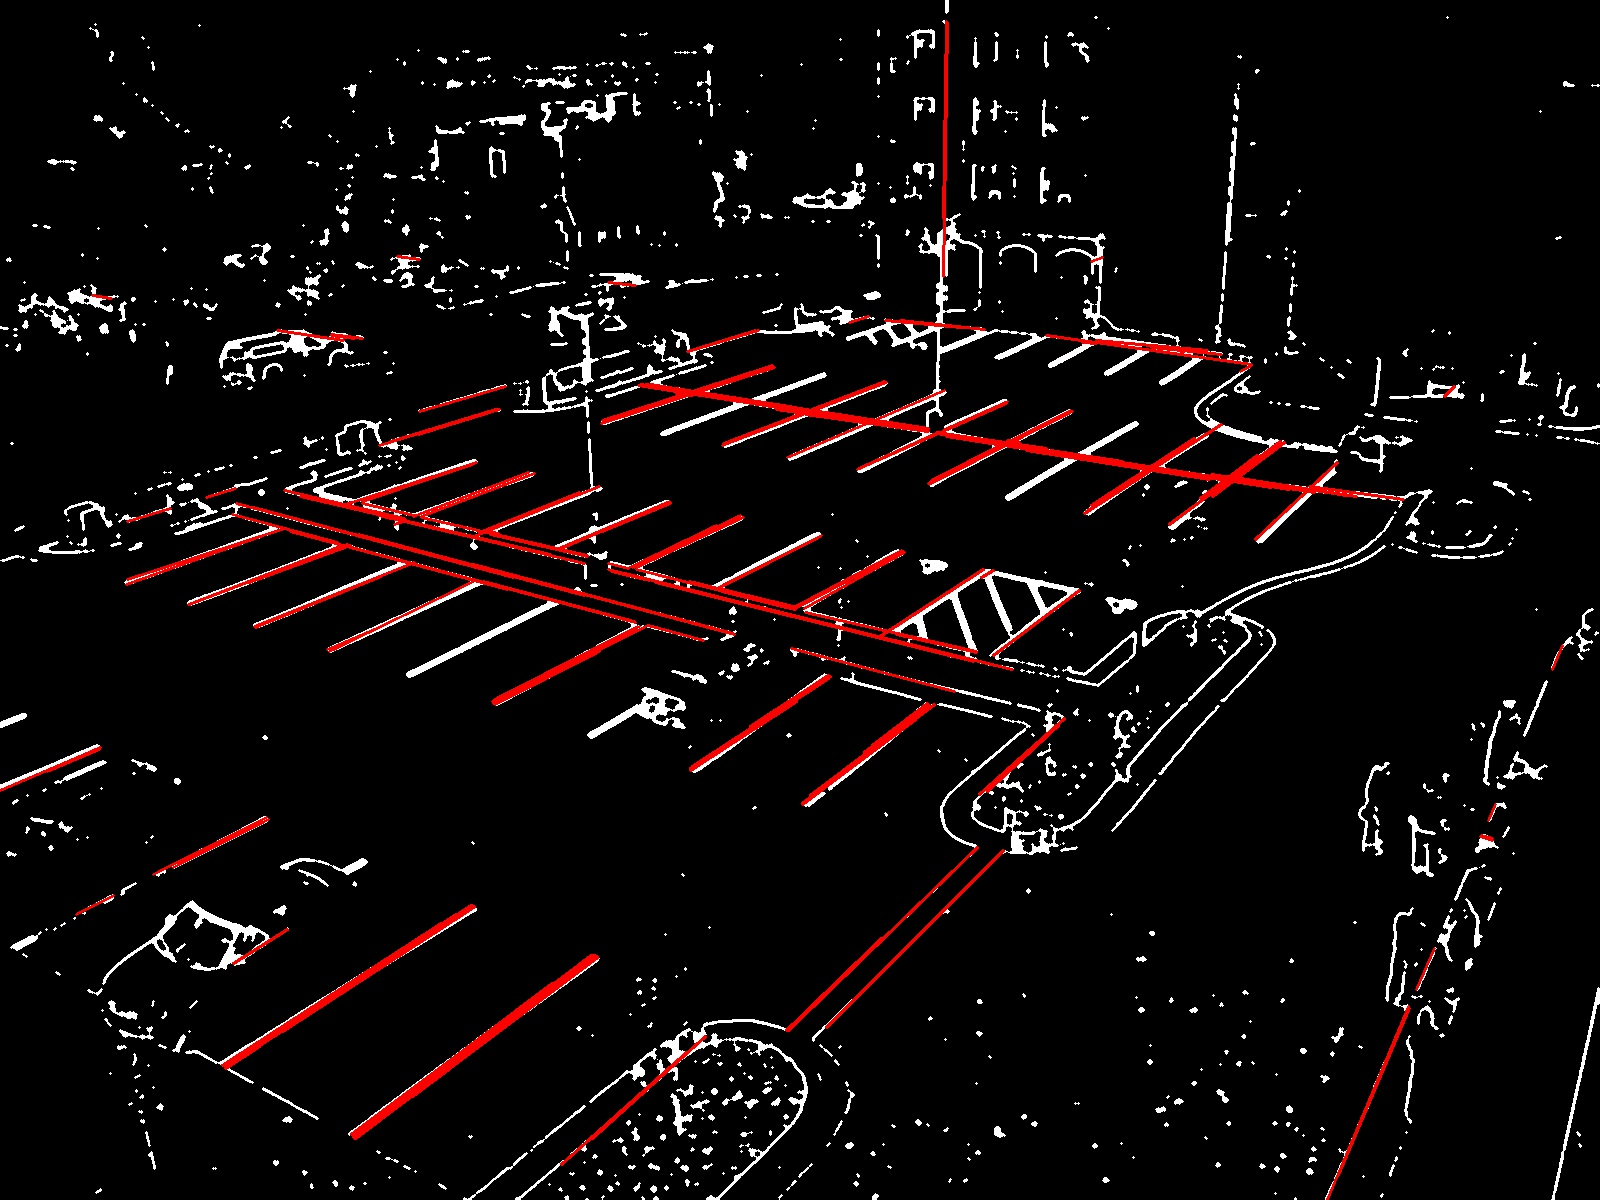
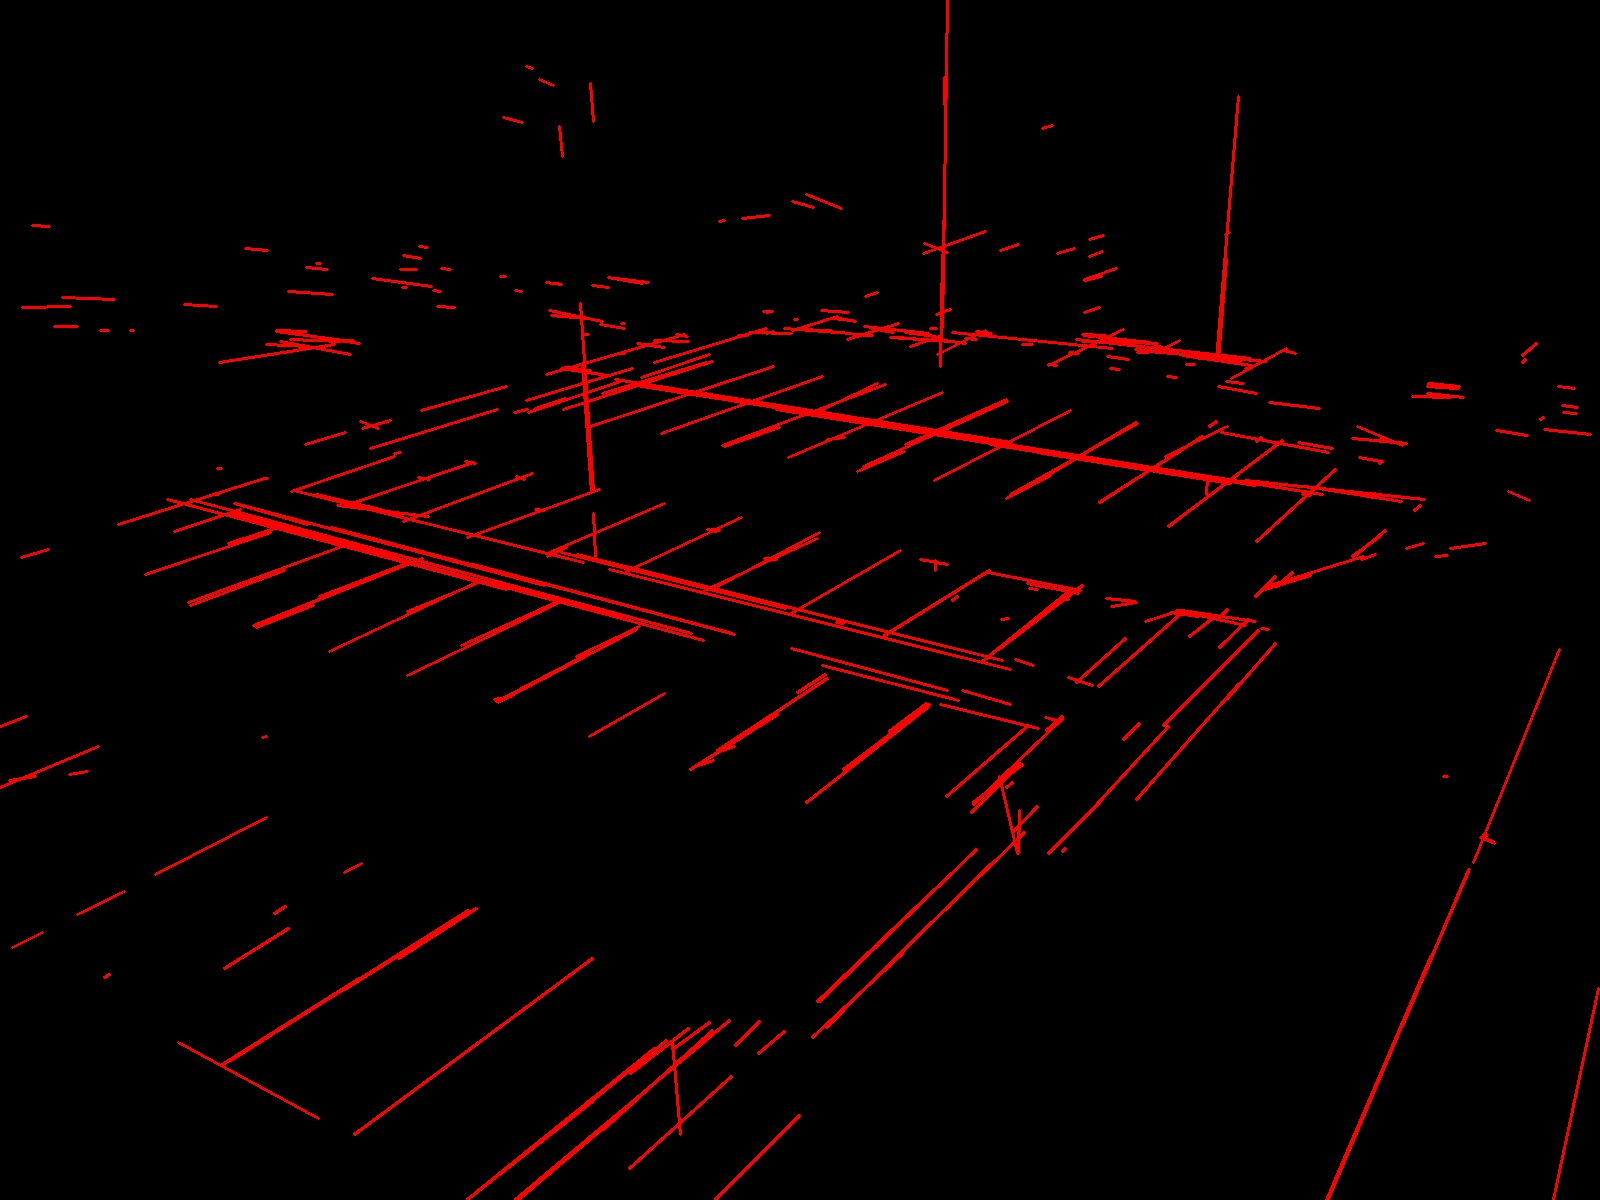
Calcula e clusteriza por segmento de retas (Hough probabilistico)

diff --git a/src/main.cpp b/src/main.cpp
@@ -30,8 +30,8 @@ Mat ExtractFeatureMat(Mat featuresMat, int featureNum);
 #define DIST_RES 1
 #define ANGLE_RES M_PI/180.
 #define HOUGH_THRES 300 // Acumulador
-#define MIN_LINE_LEN 10.
-#define MAX_LINE_GAP 5.
+#define MIN_LINE_LEN 3.
+#define MAX_LINE_GAP 15.
 #define TAM_DILATA 7 // Pixels
 #define TAM_ERODE 5 // Pixels
 #define TAM_LINE 3000 // Pixels
@@ -42,12 +42,14 @@ Mat ExtractFeatureMat(Mat featuresMat, int featureNum);
 
 #define SENSIBILITY 5.
 #define LINE_THRES 0.5
+#define SEGLINE_THRES 0.65
 #define LINE_MAX_DIST 75
 
 std::vector<Vec2f> AKM( std::vector<Vec2f> input, float threshold, float lineMaxDist = LINE_MAX_DIST, unsigned int minLines = 1 );
+std::vector<Vec4i> AKM( std::vector<Vec4i> input, float threshold, float lineMaxDist = LINE_MAX_DIST, unsigned int minLines = 1 );
 void FilterByAKM( std::vector<Vec2f>& input, float threshold, float lineMaxDist = LINE_MAX_DIST, unsigned int minLines = 1 );
 double linesSimilarity( Vec2f lineA, Vec2f lineB, float maxDistance = 50 );
-
+double linesSimilarity( Vec4i lineA, Vec4i lineB, float maxDistance = 100 );
 // Termina AKM
 
 int main(int argc, char** argv){
@@ -78,6 +80,10 @@ int main(int argc, char** argv){
 	// imshow("gy", gy);
 	// imshow("mag", mag);
 	// imshow("angle", angle);
+
+	Mat magSave;
+	mag.convertTo(magSave, CV_8UC1, 255);
+	imwrite("./debug-data/sobel-mag.jpg", magSave);
 
 	// Começa GLCM (matriz de homogeneidades)
 	int featuresWidth = std::ceil((img.cols-(WINDOW_SIZE-1))/X_STEP);
@@ -298,7 +304,7 @@ int main(int argc, char** argv){
 
 	// Termina GLCM
 
-	printf("GLCMs computadas. Calculando linhas...\n");
+	printf("GLCMs computadas. Calculando Transformada de Hough...\n");
 
 	// Começa Hough (Transformada de Hough (rho theta), mesmo alpha)
 
@@ -309,13 +315,13 @@ int main(int argc, char** argv){
 		threshold(gray, binarizado, BIN_THRES, 255, THRESH_BINARY/100);
 		binarizado.convertTo(binarizado, CV_8UC1);
 		// imshow("Hough - binarizado", binarizado);
-		imwrite("./debug-data/hough-binarizado.jpg", binarizado);
+		imwrite("./debug-data/binarizado.jpg", binarizado);
 
 		// Faz fechamento customizado
 		morphologyEx(binarizado, operado, MORPH_DILATE, getStructuringElement( MORPH_ELLIPSE, Size(TAM_DILATA, TAM_DILATA) ));
 		morphologyEx(operado, operado, MORPH_ERODE, getStructuringElement( MORPH_ELLIPSE, Size(TAM_ERODE, TAM_ERODE) ));
 		// imshow("Hough - operado", operado);
-		imwrite("./debug-data/hough-operado.jpg", operado);
+		imwrite("./debug-data/morph-operado.jpg", operado);
 
 		{ // Acha as linhas por Hough
 			std::vector<Vec2f> lines;
@@ -359,6 +365,34 @@ int main(int argc, char** argv){
 			// imshow("Hough - Linhas Clusterizadas", houghWithClusteredLines);
 			imwrite("./debug-data/hough-linhas-cluster.jpg", houghWithClusteredLines);
 		}
+		printf("Hough computado. Calculando Hough probabilistico...\n");
+		{ // Acha os segmentos de linhas por Hough
+			std::vector<Vec4i> segLines;
+			HoughLinesP(operado, segLines, DIST_RES, ANGLE_RES, HOUGH_THRES/2, MIN_LINE_LEN, MAX_LINE_GAP);
+		
+			Mat houghWithLines = Mat::zeros(gray.rows, gray.cols, gray.type());
+			// Mat houghWithLines = operado.clone();
+			cvtColor(houghWithLines, houghWithLines, COLOR_GRAY2BGR);
+			for( unsigned int i = 0; i < segLines.size(); i++ ) {
+				line( houghWithLines, Point(segLines[i][0], segLines[i][1]), Point(segLines[i][2], segLines[i][3]), Scalar(0,0,255), 1, 8 );
+			}
+		
+			// imshow("Hough - Segmento de Linhas", houghWithLines);
+			imwrite("./debug-data/hough-segmentolinhas.jpg", houghWithLines);
+		
+			// Compute e desenha a clusterização adaptativa
+			std::vector<Vec4i> clusters = AKM(segLines, SEGLINE_THRES);
+		
+			Mat houghWithClusteredLines = Mat::zeros(gray.rows, gray.cols, gray.type());
+			// Mat houghWithClusteredLines = operado.clone();
+			cvtColor(houghWithClusteredLines, houghWithClusteredLines, COLOR_GRAY2BGR);
+			for( unsigned int i = 0; i < clusters.size(); i++ ) {
+				line( houghWithClusteredLines, Point(clusters[i][0], clusters[i][1]), Point(clusters[i][2], clusters[i][3]), Scalar(0,0,255), 2, 8 );
+			}
+		
+			// imshow("Hough - Segmento de Linhas Clusterizado", houghWithClusteredLines);
+			imwrite("./debug-data/hough-segmentolinhas-cluster.jpg", houghWithClusteredLines);
+		}
 	}
 
 	// Termina Hough
@@ -387,6 +421,9 @@ Mat ExtractFeatureMat(Mat featuresMat, int featureNum) {
 // Começa AKM
 
 std::vector<Vec2f> AKM( std::vector<Vec2f> input, float threshold, float lineMaxDist, unsigned int minLines ) {
+	if(input.size() < 1) {
+		return std::vector<Vec2f>();
+	}
 	std::vector<Vec2f> means;
 	std::vector<unsigned int> amount;
 	means.push_back(input[0]);
@@ -406,10 +443,58 @@ std::vector<Vec2f> AKM( std::vector<Vec2f> input, float threshold, float lineMax
 			means[closestK] = (oldMean + input[i])/((float)amount[closestK]);
 			for(unsigned int a = 0; a < means.size(); ++a) {
 				for(unsigned int b = a+1; b < means.size(); ++b) {
-					double similarity = linesSimilarity(means[a], means[b], LINE_MAX_DIST);
+					double similarity = linesSimilarity(means[a], means[b], lineMaxDist);
 					if(similarity > threshold) {
 						float newAmount = amount[b]+amount[a];
 						Vec2f newMean = ( means[b]*((float)amount[b]) + means[a]*((float)amount[a]) )/newAmount;
+						means[a] = newMean;
+						amount[a] = newAmount;
+						means.erase(means.begin()+b);
+						amount.erase(amount.begin()+ b--);
+					}
+				}
+			}
+		} else {
+			means.push_back(input[i]);
+			amount.push_back(1);
+		}
+	}
+	for(unsigned int a = 0; a < means.size(); ++a) {
+		if(amount[a] < minLines) {
+			means.erase(means.begin()+a);
+			amount.erase(amount.begin()+ a--);
+		}
+	}
+	return means;
+}
+
+std::vector<Vec4i> AKM( std::vector<Vec4i> input, float threshold, float lineMaxDist, unsigned int minLines ) {
+	if(input.size() < 1) {
+		return std::vector<Vec4i>();
+	}
+	std::vector<Vec4i> means;
+	std::vector<unsigned int> amount;
+	means.push_back(input[0]);
+	amount.push_back(1);
+	for(unsigned int i = 1; i < input.size(); ++i) {
+		unsigned int closestK = 0;
+		double biggestSimilarity = 0.;
+		for(unsigned int k = 0; k < means.size(); ++k) {
+			double similarity = linesSimilarity(input[i], means[k], lineMaxDist);
+			if(similarity > biggestSimilarity) {
+				biggestSimilarity = similarity;
+				closestK = k;
+			}
+		}
+		if(biggestSimilarity > threshold) {
+			Vec4i oldMean = means[closestK] * ((float)amount[closestK]++);
+			means[closestK] = (oldMean + input[i])/((float)amount[closestK]);
+			for(unsigned int a = 0; a < means.size(); ++a) {
+				for(unsigned int b = a+1; b < means.size(); ++b) {
+					double similarity = linesSimilarity(means[b], means[a], lineMaxDist);
+					if(similarity > threshold) {
+						float newAmount = amount[b]+amount[a];
+						Vec4i newMean = ( means[b]*((float)amount[b]) + means[a]*((float)amount[a]) )/newAmount;
 						means[a] = newMean;
 						amount[a] = newAmount;
 						means.erase(means.begin()+b);
@@ -451,6 +536,21 @@ double linesSimilarity(Vec2f lineA, Vec2f lineB, float maxDistance) {
 	double angleSim = 1 - std::abs(lineA[1] - lineB[1])/(M_PI/2);
 	double distSim = 1 - std::abs(lineA[0] - lineB[0])/maxDistance;
 	return angleSim * (distSim > 0 ? distSim : 0);
+}
+
+double linesSimilarity( Vec4i lineA, Vec4i lineB, float maxDistance ) {
+	double thetaA = 90.*M_PI/180. - std::atan2( std::abs(lineA[2]-lineA[0]), std::abs(lineA[3]-lineA[1]) );
+	double thetaB = 90.*M_PI/180. - std::atan2( std::abs(lineB[2]-lineB[0]), std::abs(lineB[3]-lineB[1]) );
+
+	Vec2f midA((lineA[0]+lineA[2])/2, (lineA[1]+lineA[3])/2);
+	Vec2f midB((lineB[0]+lineB[2])/2, (lineB[1]+lineB[3])/2);
+
+	double rhoA = midA[0]*std::sin(thetaA) + midA[1]*std::cos(thetaA);
+	double rhoB = midB[0]*std::sin(thetaB) + midB[1]*std::cos(thetaB);
+
+	double distSim = 1 - std::sqrt( std::pow( midA[0]-midB[0], 2) + std::pow( midA[1]-midB[1], 2) )/maxDistance;
+
+	return linesSimilarity(Vec2f(rhoA, thetaA), Vec2f(rhoB, thetaB), maxDistance) * (distSim > 0 ? distSim : 0);
 }
 
 // Termina AKM
